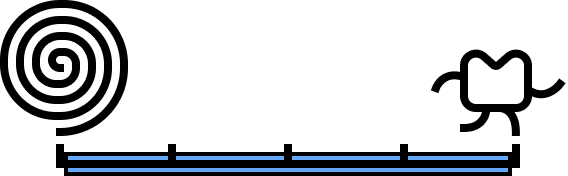
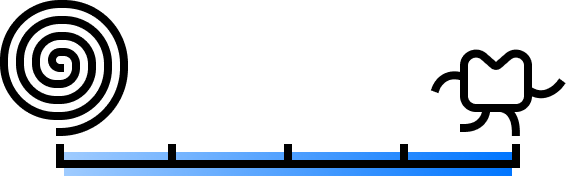
add new indicator assets

Changed region(s): [[0.0898, 0.9375, 0.9278, 1.0], [0.0898, 0.8523, 0.9278, 0.9091]]

diff --git a/src/main/kotlin/me/gabryon/kodeedelivery/ui/Indicator.kt b/src/main/kotlin/me/gabryon/kodeedelivery/ui/Indicator.kt
@@ -1,13 +1,15 @@
 package me.gabryon.kodeedelivery.ui
 
+import ch.hippmann.godot.utilities.logging.debug
 import godot.Texture2D
 import godot.TextureRect
-import godot.Tween
 import godot.annotation.Export
 import godot.annotation.RegisterClass
+import godot.annotation.RegisterFunction
 import godot.annotation.RegisterProperty
-import godot.core.asNodePath
+import godot.core.StringName
 import godot.core.asStringName
+import me.gabryon.kodeedelivery.managers.Referee
 
 @RegisterClass
 class Indicator : TextureRect() {
@@ -27,12 +29,13 @@ class Indicator : TextureRect() {
     @RegisterProperty
     lateinit var indicator3: Texture2D
 
-    fun updateBar(value: Double) {
-        texture = when (value) {
-            in 0.0..<25.0 -> indicator3
-            in 25.0..<50.0 -> indicator2
-            in 50.0..<75.0 -> indicator1
-            else -> indicator0
+    @RegisterFunction
+    fun onDistanceWithDogChanged(distance: StringName) {
+        texture = when (distance.toString()) {
+            Referee.FAR_AWAY ->indicator0
+            Referee.FAR -> indicator1
+            Referee.CLOSE -> indicator2
+            else -> indicator3
         }
     }
 }
